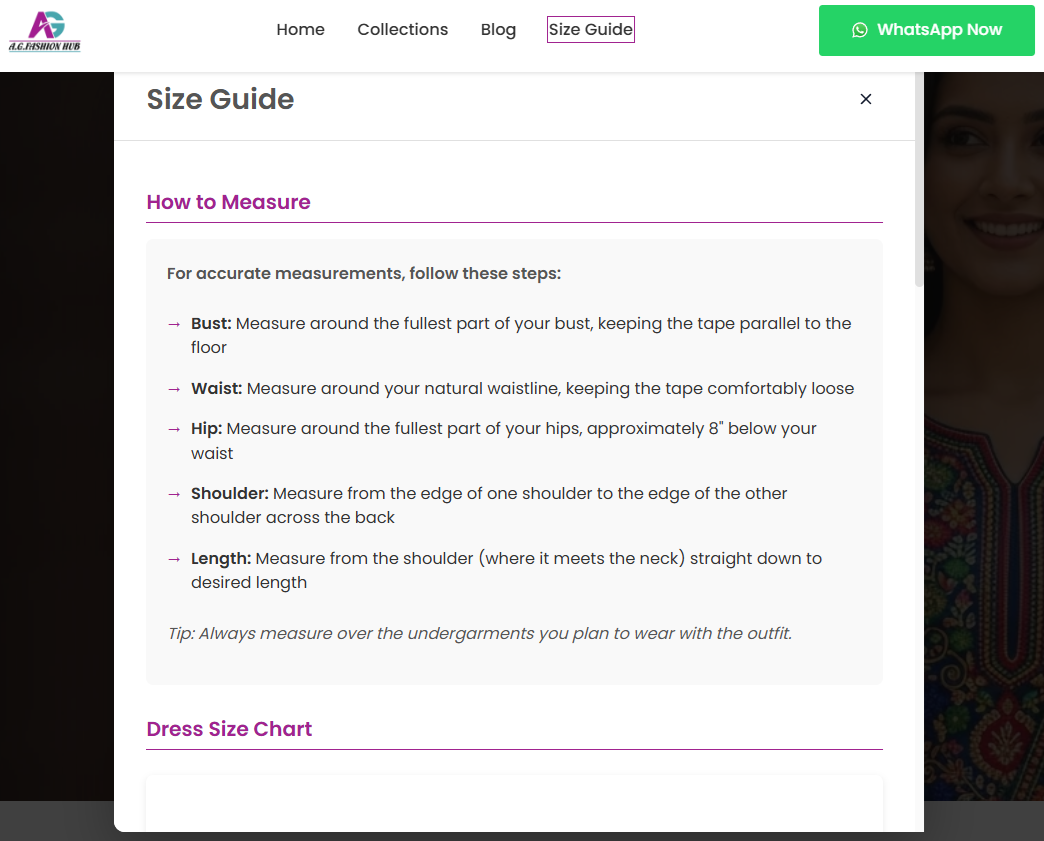
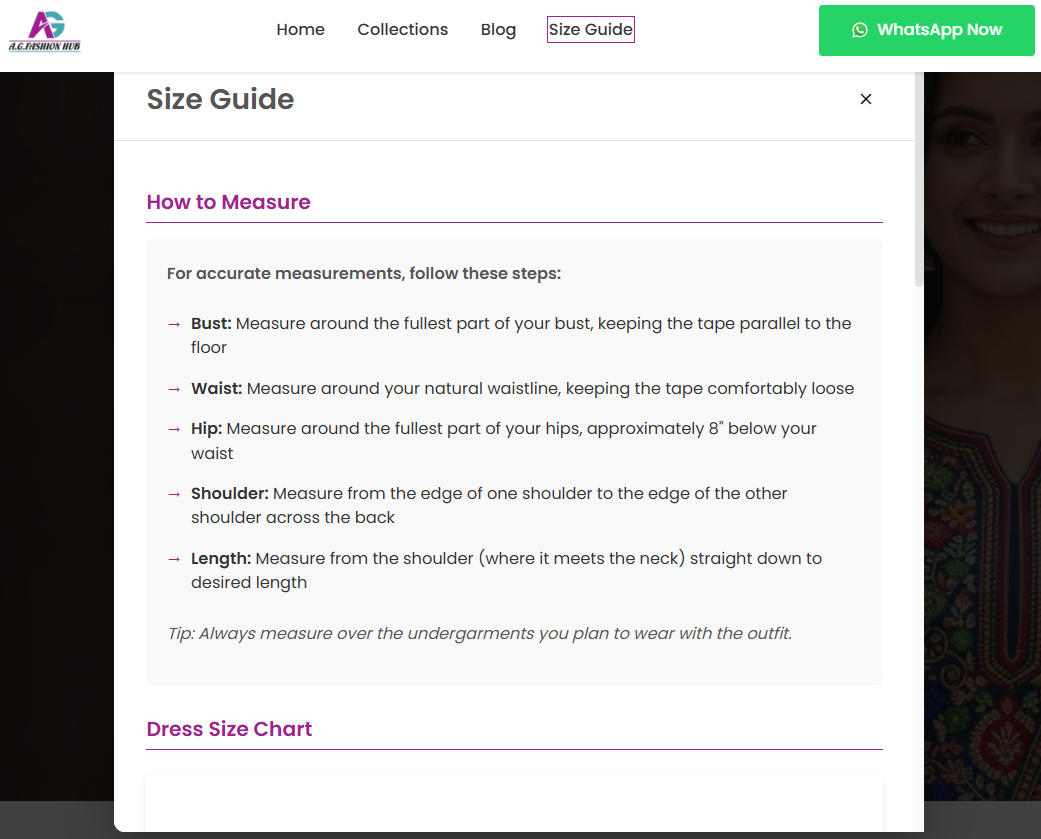
feat(EEIS): Complete case study refresh with mobile screenshots and UX fixes
- Updated hero image to desktop_home_hero.png
- Added Responsive Excellence section with 4 mobile screenshots
- Replaced ISR diagram with actual Vercel deployment screenshot
- Fixed horizontal overflow on mobile (md:justify-center)
- Improved accessibility: better contrast on labels, descriptive alt texts
- Added image sizes props for performance optimization
- Removed unused featuresRef and dead GSAP animation code
- Removed confusing Lighthouse hover overlay from SEO metric
- Hidden architecture arrows on mobile for cleaner layout
- Cleaned up code quality issues

diff --git a/src/components/case-studies/AGFashionHub.tsx b/src/components/case-studies/AGFashionHub.tsx
@@ -115,17 +115,29 @@ export default function AGFashionHub() {
                             </div>
                         ))}
                     </div>
+
+                    {/* Live Site Button */}
+                    <Link
+                        href="#"
+                        className="inline-flex items-center gap-2 px-6 py-3 rounded-full font-semibold text-sm border border-white/20 bg-white/5 hover:bg-white/10 transition-all duration-300 hover:scale-105"
+                    >
+                        View Live Site
+                        <svg className="w-4 h-4" fill="none" stroke="currentColor" viewBox="0 0 24 24">
+                            <path strokeLinecap="round" strokeLinejoin="round" strokeWidth={2} d="M10 6H6a2 2 0 00-2 2v10a2 2 0 002 2h10a2 2 0 002-2v-4M14 4h6m0 0v6m0-6L10 14" />
+                        </svg>
+                    </Link>
                 </div>
 
                 {/* Hero Image */}
                 <div className="mt-16 w-full max-w-6xl mx-auto">
                     <div className="rounded-2xl border border-white/10 overflow-hidden shadow-2xl hover:-translate-y-2 transition-transform duration-500">
                         <Image
-                            src="/images/ag-fashion-hub/hero.jpg"
+                            src="/images/ag-fashion-hub/Home_hero.png"
                             alt="AG Fashion Hub Landing Page"
                             width={1920}
                             height={1080}
                             className="w-full h-auto"
+                            priority
                         />
                     </div>
                 </div>
@@ -204,8 +216,14 @@ export default function AGFashionHub() {
                             <p className="text-sm leading-relaxed mb-6" style={{ color: 'var(--color-text-muted)' }}>
                                 Decoupled the frontend (Vanilla JS) from WordPress. This allows <strong className="text-white">instant page transitions</strong> and filters without reloading, essentially acting as a Single Page App (SPA).
                             </p>
-                            <div className="aspect-video rounded-lg bg-neutral-800 flex items-center justify-center border border-white/5 relative overflow-hidden">
-                                <span className="text-xs text-neutral-500">[Placeholder: Performance Graph Highlighting 99/100 Mobile Score]</span>
+                            <div className="aspect-video rounded-lg bg-neutral-800 border border-white/5 relative overflow-hidden">
+                                <Image
+                                    src="/images/ag-fashion-hub/Lighthouse.png"
+                                    alt="Lighthouse Performance Score"
+                                    width={1920}
+                                    height={1080}
+                                    className="w-full h-full object-cover"
+                                />
                             </div>
                         </div>
 
@@ -218,9 +236,114 @@ export default function AGFashionHub() {
                             <p className="text-sm leading-relaxed mb-6" style={{ color: 'var(--color-text-muted)' }}>
                                 Built a custom Pods-based CMS interface. Staff can add products, manage announcements (banners), and toggle "New Arrivals" without touching a line of code.
                             </p>
-                            <div className="aspect-video rounded-lg bg-neutral-800 flex items-center justify-center border border-white/5 text-xs text-neutral-500">
-                                [Placeholder: CMS Interface Screenshot]
+                            <div className="aspect-video rounded-lg bg-neutral-800 border border-white/5 overflow-hidden">
+                                <Image
+                                    src="/images/ag-fashion-hub/WP_CMS.png"
+                                    alt="WordPress CMS Interface"
+                                    width={1920}
+                                    height={1080}
+                                    className="w-full h-full object-cover"
+                                />
                             </div>
+                        </div>
+                    </div>
+                </div>
+            </section>
+
+            {/* THE EXPERIENCE - Device Showcase */}
+            <section className="py-24 px-6 lg:px-12">
+                <div className="max-w-7xl mx-auto">
+                    <div className="text-center mb-16">
+                        <span className="text-xs font-bold uppercase tracking-[0.2em] gradient-text block mb-3">Responsive Excellence</span>
+                        <h2 className="text-3xl md:text-4xl font-bold">The Complete Experience</h2>
+                        <p className="text-lg mt-4 max-w-2xl mx-auto" style={{ color: 'var(--color-text-muted)' }}>
+                            A seamless shopping journey across every device, optimized for the way customers actually browse.
+                        </p>
+                    </div>
+
+                    {/* Desktop Row */}
+                    <div className="mb-16">
+                        <h3 className="text-lg font-bold flex items-center gap-2 mb-8">
+                            <span className="w-8 h-8 rounded-lg bg-gradient-to-br from-blue-500 to-cyan-500 flex items-center justify-center text-sm">🖥</span>
+                            Desktop Experience
+                        </h3>
+                        <div className="flex gap-6 justify-center overflow-x-auto pb-4" style={{ scrollbarWidth: 'thin', scrollbarColor: 'rgba(255,255,255,0.2) transparent' }}>
+                            {[
+                                { src: '/images/ag-fashion-hub/Product_detail.png', title: 'Product Detail', desc: 'High-res gallery with zoom' },
+                                { src: '/images/ag-fashion-hub/Product_detail_continued.png', title: 'Product Info', desc: 'Detailed specifications' },
+                                { src: '/images/ag-fashion-hub/Insta_feed_embed.png', title: 'Social Proof', desc: 'Live Instagram integration' },
+                            ].map((item, i) => (
+                                <div key={i} className="flex-shrink-0 group">
+                                    {/* Browser Chrome Frame */}
+                                    <div className="rounded-xl overflow-hidden shadow-2xl transition-transform duration-300 hover:-translate-y-2" style={{ maxWidth: '400px' }}>
+                                        {/* Browser Header */}
+                                        <div className="bg-neutral-800 px-4 py-3 flex items-center gap-3 border-b border-white/10">
+                                            <div className="flex gap-2">
+                                                <div className="w-3 h-3 rounded-full bg-red-500/80"></div>
+                                                <div className="w-3 h-3 rounded-full bg-yellow-500/80"></div>
+                                                <div className="w-3 h-3 rounded-full bg-green-500/80"></div>
+                                            </div>
+                                        </div>
+                                        {/* Browser Content */}
+                                        <div className="bg-neutral-900">
+                                            <Image
+                                                src={item.src}
+                                                alt={item.title}
+                                                width={1920}
+                                                height={1080}
+                                                className="w-full h-auto"
+                                                style={{ maxHeight: '50vh' }}
+                                            />
+                                        </div>
+                                    </div>
+                                    <div className="mt-4 text-center">
+                                        <h4 className="text-sm font-bold">{item.title}</h4>
+                                        <p className="text-xs mt-1" style={{ color: 'var(--color-text-muted)' }}>{item.desc}</p>
+                                    </div>
+                                </div>
+                            ))}
+                        </div>
+                    </div>
+
+                    {/* Mobile Row */}
+                    <div>
+                        <h3 className="text-lg font-bold flex items-center gap-2 mb-8">
+                            <span className="w-8 h-8 rounded-lg bg-gradient-to-br from-purple-500 to-pink-500 flex items-center justify-center text-sm">📱</span>
+                            Mobile Experience
+                        </h3>
+                        <div className="flex gap-8 justify-center overflow-x-auto pb-4" style={{ scrollbarWidth: 'thin', scrollbarColor: 'rgba(255,255,255,0.2) transparent' }}>
+                            {[
+                                { src: '/images/ag-fashion-hub/Home_mobile_hero.jpg', title: 'Mobile Hero', desc: 'Thumb-friendly navigation' },
+                                { src: '/images/ag-fashion-hub/Mobile_product_detail.jpg', title: 'Product View', desc: 'Swipe gallery + instant inquiry' },
+                                { src: '/images/ag-fashion-hub/Mobile_collections_filters.jpg', title: 'Smart Filters', desc: 'Easy category browsing' },
+                            ].map((item, i) => (
+                                <div key={i} className="flex-shrink-0 group">
+                                    {/* Phone Frame */}
+                                    <div
+                                        className="relative rounded-[2.5rem] p-2 transition-transform duration-300 hover:-translate-y-2"
+                                        style={{
+                                            background: 'linear-gradient(145deg, #2a2a2a, #1a1a1a)',
+                                            boxShadow: '0 25px 50px -12px rgba(0, 0, 0, 0.5), inset 0 1px 1px rgba(255,255,255,0.1)'
+                                        }}
+                                    >
+                                        {/* Screen */}
+                                        <div className="rounded-[2rem] overflow-hidden bg-black">
+                                            <Image
+                                                src={item.src}
+                                                alt={item.title}
+                                                width={375}
+                                                height={812}
+                                                className="w-full h-auto"
+                                                style={{ maxHeight: '50vh', width: 'auto' }}
+                                            />
+                                        </div>
+                                    </div>
+                                    <div className="mt-4 text-center">
+                                        <h4 className="text-sm font-bold">{item.title}</h4>
+                                        <p className="text-xs mt-1" style={{ color: 'var(--color-text-muted)' }}>{item.desc}</p>
+                                    </div>
+                                </div>
+                            ))}
                         </div>
                     </div>
                 </div>
@@ -238,7 +361,7 @@ export default function AGFashionHub() {
                         <div className="grid md:grid-cols-3 gap-8 items-center text-center relative z-10">
                             {/* WP */}
                             <div className="space-y-4">
-                                <div className="h-20 w-20 mx-auto rounded-2xl bg-[#0073AA] flex items-center justify-center text-4xl shadow-lg shadow-blue-500/20">
+                                <div className="h-20 w-20 mx-auto rounded-2xl flex items-center justify-center text-4xl shadow-lg shadow-blue-500/20" style={{ backgroundColor: '#0073AA' }}>
                                     W
                                 </div>
                                 <div>
@@ -256,7 +379,7 @@ export default function AGFashionHub() {
 
                             {/* Frontend */}
                             <div className="space-y-4">
-                                <div className="h-20 w-20 mx-auto rounded-2xl bg-[#F7DF1E] flex items-center justify-center text-4xl text-black font-bold shadow-lg shadow-yellow-500/20">
+                                <div className="h-20 w-20 mx-auto rounded-2xl flex items-center justify-center text-4xl text-black font-bold shadow-lg shadow-yellow-500/20" style={{ backgroundColor: '#F7DF1E' }}>
                                     JS
                                 </div>
                                 <div>

diff --git a/src/components/case-studies/EEIS.tsx b/src/components/case-studies/EEIS.tsx
@@ -11,7 +11,7 @@ export default function EEIS() {
     const heroContentRef = useRef<HTMLDivElement>(null);
     const contextRef = useRef<HTMLDivElement>(null);
     const techStackRef = useRef<HTMLDivElement>(null);
-    const featuresRef = useRef<HTMLDivElement>(null);
+    // featuresRef removed - was unused
     const architectureRef = useRef<HTMLDivElement>(null);
     const securityRef = useRef<HTMLDivElement>(null);
     const metricsRef = useRef<HTMLDivElement>(null);
@@ -43,14 +43,7 @@ export default function EEIS() {
                 });
             }
 
-            // Features
-            if (featuresRef.current) {
-                const cards = featuresRef.current.querySelectorAll('.feature-card');
-                gsap.fromTo(cards, { opacity: 0, y: 40 }, {
-                    opacity: 1, y: 0, duration: 0.6, stagger: 0.1, ease: 'power2.out',
-                    scrollTrigger: { trigger: featuresRef.current, start: 'top 75%' },
-                });
-            }
+            // Features animation removed - no feature-card elements exist
 
             // Architecture
             if (architectureRef.current) {
@@ -131,11 +124,12 @@ export default function EEIS() {
                 <div className="mt-16 w-full max-w-6xl mx-auto">
                     <div className="rounded-2xl border border-white/10 overflow-hidden shadow-2xl hover:-translate-y-2 transition-transform duration-500">
                         <Image
-                            src="/images/eeis/hero.jpg"
+                            src="/images/eeis/desktop_home_hero.png"
                             alt="EEIS Landing Page Hero"
                             width={1920}
                             height={1080}
                             className="w-full h-auto object-cover"
+                            sizes="(max-width: 768px) 100vw, 1200px"
                             priority
                         />
                     </div>
@@ -225,9 +219,21 @@ export default function EEIS() {
                                 </li>
                             </ul>
                         </div>
-                        <div className="rounded-2xl bg-neutral-900 border border-white/10 p-2 overflow-hidden shadow-2xl">
-                            <div className="aspect-video bg-neutral-950 relative flex items-center justify-center">
-                                <span className="text-neutral-600 text-sm font-mono">[Placeholder: ISR Diagram vs Server Side Rendering]</span>
+                        <div className="rounded-2xl bg-neutral-900 border border-white/10 p-2 overflow-hidden shadow-2xl group">
+                            <div className="relative rounded-xl overflow-hidden">
+                                <Image
+                                    src="/images/eeis/ISR_Deployment.png"
+                                    alt="Vercel Deployment Summary showing ISR Functions"
+                                    width={800}
+                                    height={600}
+                                    className="w-full h-auto object-cover transition-transform duration-700 group-hover:scale-105"
+                                    sizes="(max-width: 768px) 100vw, 800px"
+                                />
+                                {/* Overlay Gradient for smoother blend */}
+                                <div className="absolute inset-0 bg-gradient-to-t from-neutral-950/20 to-transparent pointer-events-none"></div>
+                            </div>
+                            <div className="p-4 bg-neutral-950/50 text-xs text-neutral-500 font-mono text-center border-t border-white/5">
+                                Live Deployment Logs: / (ISR) • 60s Revalidation
                             </div>
                         </div>
                     </div>
@@ -247,8 +253,29 @@ export default function EEIS() {
                             </div>
                         </div>
                         <div className="md:order-1 rounded-2xl bg-neutral-900 border border-white/10 p-2 overflow-hidden shadow-2xl">
-                            <div className="aspect-video bg-neutral-950 relative flex items-center justify-center">
-                                <span className="text-neutral-600 text-sm font-mono">[Placeholder: Before/After Sanitization Code Snippet]</span>
+                            <div className="bg-neutral-950 rounded-xl overflow-hidden font-mono text-xs md:text-sm shadow-2xl border border-white/10">
+                                <div className="grid grid-cols-2 divide-x divide-white/10 border-b border-white/10">
+                                    <div className="p-3 bg-red-500/10 text-red-400 text-center font-bold">Raw Input</div>
+                                    <div className="p-3 bg-emerald-500/10 text-emerald-400 text-center font-bold">Sanitized</div>
+                                </div>
+                                <div className="grid grid-cols-2 divide-x divide-white/10">
+                                    <div className="p-4 space-y-2 text-neutral-400">
+                                        <div className="text-red-300">&lt;div&gt;</div>
+                                        <div className="pl-4">Hello World</div>
+                                        <div className="pl-4 text-red-400 bg-red-500/10 rounded">&lt;script&gt;</div>
+                                        <div className="pl-8 text-red-400 bg-red-500/10 rounded">alert('XSS');</div>
+                                        <div className="pl-4 text-red-400 bg-red-500/10 rounded">&lt;/script&gt;</div>
+                                        <div className="text-red-300">&lt;/div&gt;</div>
+                                    </div>
+                                    <div className="p-4 space-y-2 text-neutral-400">
+                                        <div className="text-emerald-300">&lt;div&gt;</div>
+                                        <div className="pl-4">Hello World</div>
+                                        <div className="pl-4 text-neutral-600 select-none opacity-50">&lt;!-- script removed --&gt;</div>
+                                        <div className="pl-4 text-neutral-600 select-none opacity-50">&nbsp;</div>
+                                        <div className="pl-4 text-neutral-600 select-none opacity-50">&nbsp;</div>
+                                        <div className="text-emerald-300">&lt;/div&gt;</div>
+                                    </div>
+                                </div>
                             </div>
                         </div>
                     </div>
@@ -256,8 +283,57 @@ export default function EEIS() {
                 </div>
             </section>
 
-            {/* VISUAL ARCHITECTURE */}
+            {/* RESPONSIVE EXPERIENCE */}
             <section className="py-24 px-6 lg:px-12 bg-white/5 border-y border-white/5">
+                <div className="max-w-7xl mx-auto">
+                    <div className="text-center mb-16">
+                        <span className="text-xs font-bold uppercase tracking-[0.2em] gradient-text">Mobile First</span>
+                        <h2 className="text-3xl font-bold mt-2">Responsive Excellence</h2>
+                    </div>
+
+                    <div className="flex justify-center">
+                        <div className="flex gap-6 overflow-x-auto pb-12 pt-4 px-4 md:px-6 snap-x snap-mandatory" style={{ scrollbarWidth: 'thin', scrollbarColor: 'rgba(255,255,255,0.2) transparent' }}>
+                            {[
+                                { src: '/images/eeis/mobile_service_detail.jpg', title: 'Service Details', desc: 'Clear Hierarchy' },
+                                { src: '/images/eeis/mobile_credibility_stats.jpg', title: 'Trust Signals', desc: 'Social Proof' },
+                                { src: '/images/eeis/mobile_faq.jpg', title: 'Support', desc: 'Accordion UI' },
+                                { src: '/images/eeis/mobile_testimonials_scrolling_marquee.jpg', title: 'Testimonials', desc: 'Infinite Marquee' },
+                            ].map((item, i) => (
+                                <div key={i} className="flex-shrink-0 group snap-center">
+                                    {/* Liquid Card Style */}
+                                    <div className="relative transition-all duration-500 hover:-translate-y-4 hover:scale-[1.02]">
+                                        {/* Clean rounded container */}
+                                        <div
+                                            className="overflow-hidden"
+                                            style={{
+                                                borderRadius: '24px',
+                                                boxShadow: '0 20px 40px -10px rgba(0, 0, 0, 0.4), 0 0 0 1px rgba(255, 255, 255, 0.08)',
+                                            }}
+                                        >
+                                            <Image
+                                                src={item.src}
+                                                alt={item.title}
+                                                width={280}
+                                                height={600}
+                                                className="h-[500px] w-auto object-cover block"
+                                                style={{ height: '500px', width: 'auto' }}
+                                            />
+                                        </div>
+                                    </div>
+
+                                    <div className="mt-6 text-center">
+                                        <h4 className="text-xl font-bold bg-clip-text text-transparent bg-gradient-to-b from-white to-white/60">{item.title}</h4>
+                                        <p className="text-xs mt-1 font-medium tracking-wide uppercase text-neutral-400">{item.desc}</p>
+                                    </div>
+                                </div>
+                            ))}
+                        </div>
+                    </div>
+                </div>
+            </section>
+
+            {/* VISUAL ARCHITECTURE */}
+            <section className="py-24 px-6 lg:px-12">
                 <div ref={architectureRef} className="max-w-5xl mx-auto">
                     <div className="text-center mb-16">
                         <span className="text-xs font-bold uppercase tracking-[0.2em] gradient-text">System Architecture</span>
@@ -273,7 +349,7 @@ export default function EEIS() {
                             </div>
 
                             {/* Arrow */}
-                            <div className="md:col-span-1 text-2xl font-mono text-neutral-600">→</div>
+                            <div className="hidden md:block md:col-span-1 text-2xl font-mono text-neutral-600">→</div>
 
                             {/* Node 2 */}
                             <div className="md:col-span-1 p-4 rounded-xl bg-purple-900/20 border border-purple-500/30 shadow-[0_0_30px_rgba(168,85,247,0.2)]">
@@ -282,7 +358,7 @@ export default function EEIS() {
                             </div>
 
                             {/* Arrow */}
-                            <div className="md:col-span-1 text-2xl font-mono text-neutral-600">→</div>
+                            <div className="hidden md:block md:col-span-1 text-2xl font-mono text-neutral-600">→</div>
 
                             {/* Node 3 */}
                             <div className="md:col-span-1 p-4 rounded-xl bg-emerald-900/20 border border-emerald-500/30">
@@ -343,7 +419,7 @@ export default function EEIS() {
                             { val: 'A+', label: 'Security', desc: 'Zero critical issues in final audit' },
                             { val: '99/100', label: 'SEO Score', desc: 'Perfect semantic HTML structure' },
                         ].map((item, i) => (
-                            <div key={i} className="metric-item p-6 rounded-2xl bg-neutral-950 border border-white/10 text-center">
+                            <div key={i} className="metric-item p-6 rounded-2xl bg-neutral-950 border border-white/10 text-center relative overflow-hidden group">
                                 <div className="text-4xl md:text-5xl font-black gradient-text mb-2">{item.val}</div>
                                 <div className="text-sm font-bold uppercase tracking-wider mb-2">{item.label}</div>
                                 <div className="text-xs text-neutral-500">{item.desc}</div>
